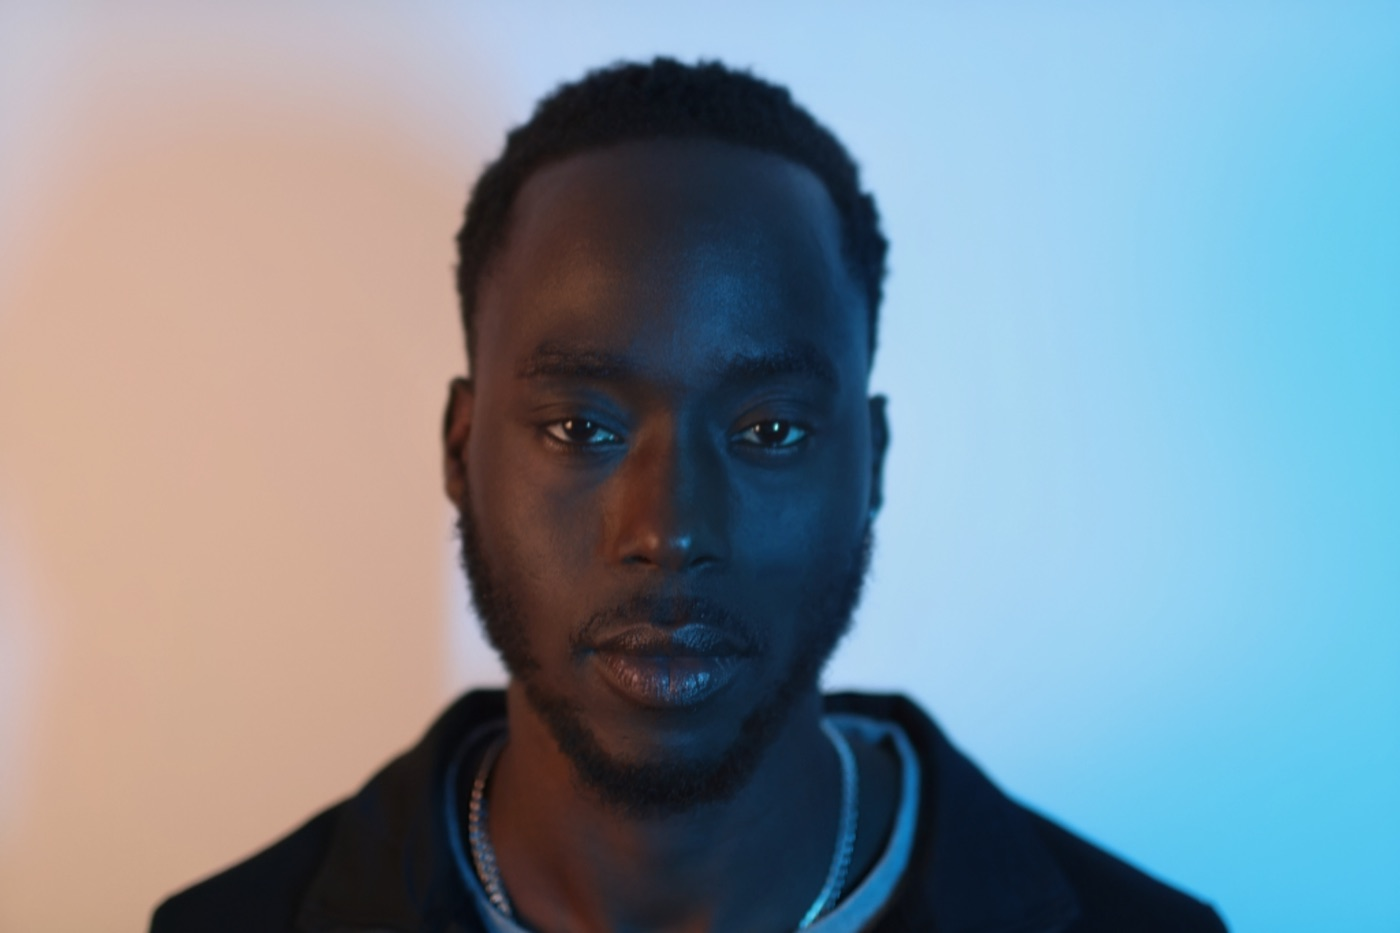
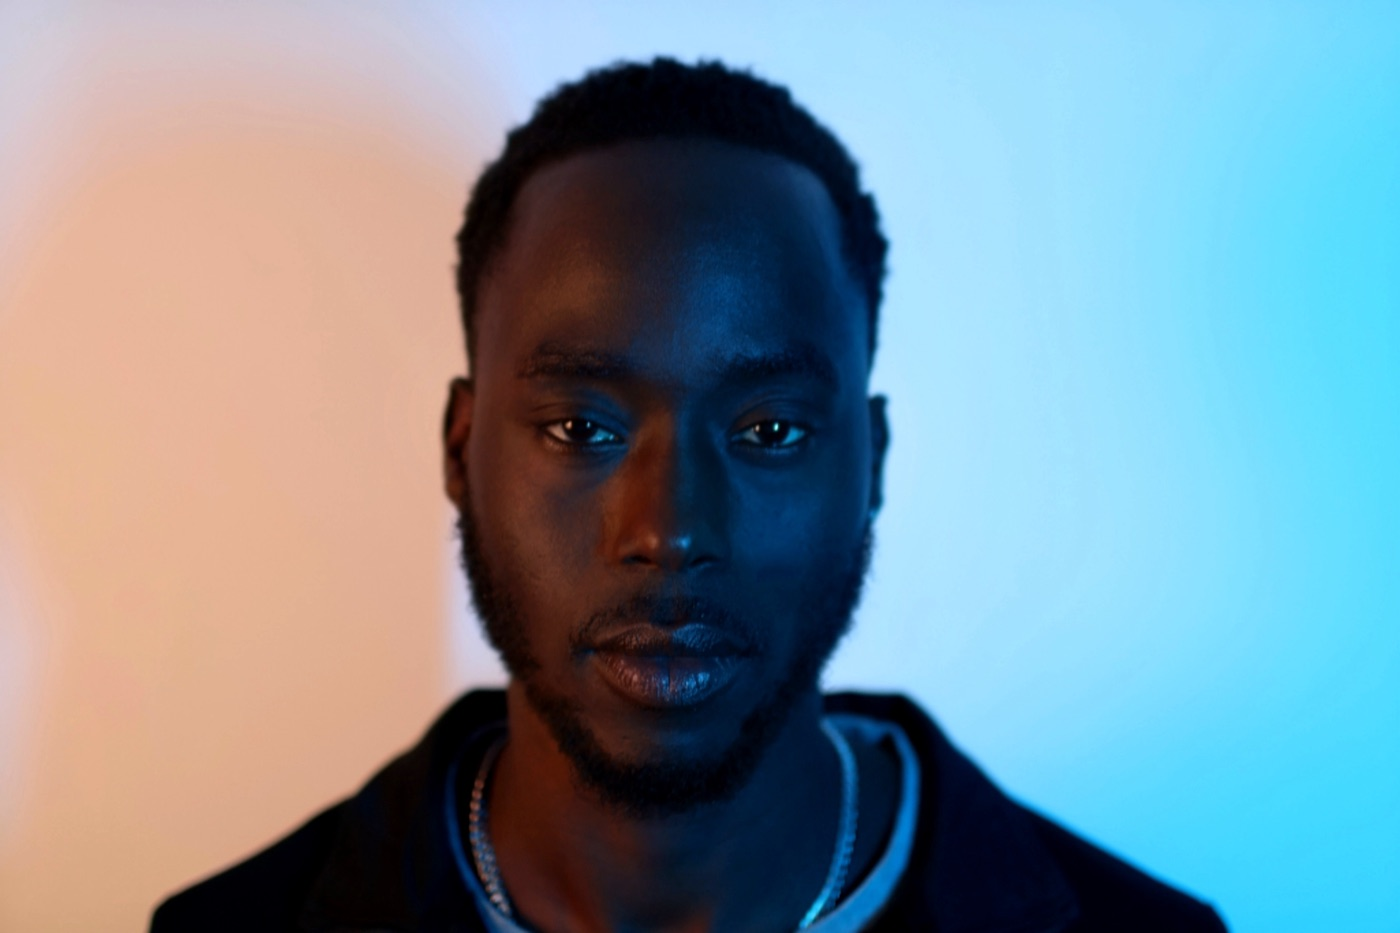
Talent and founders: website bios, edited photos, founders on the Talent page
- Exact website bios for Prince, Rebecca, Sabeian, Ngor, Phillip, Jeremy Benson, Jeremy Owusu, Chan, plus founders Joseph Boat and David O
- Split Jeremy into two people (Benson, Owusu)
- Replace five photos with the edited ones (resized to 1400px)
- Bios shown in the talent profile sheet (scrollable) and on founder cards (Read more)
- Founders section on the Talent page; shared FounderCard
- Tests for exact text, photos, cover and gradient

diff --git a/__tests__/talent-photos.test.js b/__tests__/talent-photos.test.js
@@ -1,6 +1,6 @@
 import fs from 'fs';
 import path from 'path';
-import { render, screen } from '@testing-library/react-native';
+import { render, screen, userEvent } from '@testing-library/react-native';
 
 const read = (f) => fs.readFileSync(path.join(__dirname, '..', f), 'utf8');
 
@@ -38,5 +38,75 @@ describe('real photos on the casting board', () => {
     const talentScreen = read('src/screens/TalentScreen.js');
     expect(talentScreen).toMatch(/useGoldSheen\(\)/);
     expect(talentScreen).toMatch(/onHoverIn/);
+  });
+});
+
+describe('the website bios, word for word', () => {
+  const { talent, founders } = require('../src/data/boaContent');
+  const BIOS = {
+    'prince-boamah': "Prince Boamah is an emerging creative with a passion for storytelling, film and bringing meaningful characters to life. Driven by creativity, ambition and a desire to grow, he is focused on developing his craft and exploring opportunities within the entertainment industry. With a genuine appreciation for authentic stories and the power of film to connect people, Prince brings dedication, personality and a fresh perspective to every project he is part of. His journey is rooted in resilience, self-expression and the belief that every story deserves to be told. As he continues to build his experience, Prince aims to create work that resonates with audiences, challenges perspectives and leaves a lasting impression.",
+    'rebecca-soper': "Rebecca Soper is a London-based actor, drama facilitator and Youth Violence Intervention Specialist. She trained at Intermission Youth Theatre, Identity Drama School, the National Youth Theatre and London School of Dramatic Arts. Her acting credits include Shakespeare's Globe, the Royal Court Theatre, film and voiceover work, including Netflix productions. Alongside acting, Rebecca uses drama and storytelling to raise awareness of youth violence, exploitation, identity and belonging, working with young people across schools, youth theatres and prison settings to inspire meaningful change.",
+    'sabeian-gilzene': "Sabeian Gilzene is a 6ft5 Actor and model from the UK with Caribbean roots. He is an amazing model and Actor, very professional on set, and looks to one day make his own TV shows and movies.",
+    'ngor-yel': "Ngor Yel is an Actor and model who is professional on set and ready to do whatever it takes to make sure the scene is right. A great basketball player and athlete, he is also a daytime teacher, making him excellent at code-switching.",
+    'phillip-quartey': "Phillip Quartey is an Actor and Model from London. Standing at 6ft2, he is confident, an amazing dancer, and is always ready for the call. He is also a great athlete, especially in football.",
+    'jeremy-benson': "Jeremy Benson is up and coming, learning the ropes of acting and the whole creative portfolio that comes with it. He will soon be hosting his own channel, which will have activities and explorations inside it. He is very confident, ready at fast speed, and gets his scenes right, if not on the first attempt, then the second.",
+    'jeremy-owusu': "Jeremy Owusu is an Actor and model who is confident, a comedian, and brings joy and good energy into the room. He still has a quiet, cool, observant profile about himself. He enjoys football a lot, is excellent at code-switching, and showcases this on camera.",
+    'chan-yel': "Chan Yel is an amazing Actor and model who takes his craft seriously. He is very good at basketball, specialises in urban content, and would be great for thriller roles both inside and outside the urban scene. He is athletic and has the perfect muscular build, not too big and not too small.",
+  };
+  const FOUNDERS = {
+    'David O': "Very observant, quiet and reserved in profile, yet very thoughtful and one of the most helpful, outgoing people you'll meet. He is technically and creatively up to date, good with all equipment and setup. He has done everything creatively from a camera and editing standpoint, so he is well experienced.",
+    'Joseph Boat': "A confident leader who is always looking for ways for all of us to win. My goal is to create chances and opportunities for people who the door has been closed on and not given a chance, yet they are talented and have what it takes, they just need exposure. Profile is charismatic and a people's person, great at networking in any environment. Inside I am shy, but on the outside I portray a very confident, assertive demeanour. Overall, walk with love.",
+  };
+
+  test.each(Object.entries(BIOS))('%s', (id, bio) => {
+    expect(talent.find((t) => t.id === id).bio).toBe(bio);
+  });
+
+  test.each(Object.entries(FOUNDERS))('%s (founder)', (name, bio) => {
+    expect(founders.find((f) => f.name === name).bio).toBe(bio);
+  });
+
+  test('Jeremy Benson and Jeremy Owusu are different people; nobody else is invented a bio', () => {
+    expect(talent.find((t) => t.id === 'jeremy-benson').name).toBe('Jeremy Benson');
+    expect(talent.find((t) => t.id === 'jeremy-owusu').name).toBe('Jeremy Owusu');
+    expect(talent.filter((t) => !BIOS[t.id]).every((t) => t.bio === null)).toBe(true);
+  });
+
+  test('the edited photos replaced the old ones, at the same paths', () => {
+    for (const f of ['david-o', 'joseph-boat', 'ngor-yel', 'phillip-quartey', 'prince-boamah']) {
+      const bytes = fs.readFileSync(path.join(__dirname, '..', 'assets', 'talent', `${f}.jpg`));
+      expect(bytes.length).toBeGreaterThan(50000);
+      // JPEG, resized to fit the app (the originals were 2 to 3 MB).
+      expect(bytes.length).toBeLessThan(400000);
+    }
+  });
+});
+
+describe('founders, on Profile and on the Talent page', () => {
+  const FounderCard = require('../src/components/FounderCard').default;
+  const { founders } = require('../src/data/boaContent');
+
+  test('a founder card opens to the whole bio and closes again', async () => {
+    const user = userEvent.setup();
+    await render(<FounderCard founder={founders[0]} />);
+    expect(screen.getByTestId('founder-bio').props.numberOfLines).toBe(3);
+    await user.press(screen.getByTestId('founder-bio-toggle'));
+    expect(screen.getByTestId('founder-bio').props.numberOfLines).toBeUndefined();
+    await user.press(screen.getByTestId('founder-bio-toggle'));
+    expect(screen.getByTestId('founder-bio').props.numberOfLines).toBe(3);
+  });
+
+  test('on the Talent page the photo is large, cover-filled, under the dark gradient', async () => {
+    await render(<FounderCard founder={founders[1]} photoWidth={300} />);
+    expect(screen.getByTestId('headshot-photo').props.resizeMode).toBe('cover');
+    expect(screen.getByTestId('headshot-shade')).toBeOnTheScreen();
+  });
+
+  test('both screens show them, and a talent bio opens in the profile sheet', () => {
+    const talentScreen = read('src/screens/TalentScreen.js');
+    expect(talentScreen).toMatch(/<FounderCard/);
+    expect(talentScreen).toMatch(/testID="talent-founders"/);
+    expect(talentScreen).toMatch(/\{selected\.bio/);
+    expect(read('src/screens/ProfileScreen.js')).toMatch(/<FounderCard/);
   });
 });

diff --git a/src/data/boaContent.js b/src/data/boaContent.js
@@ -91,6 +91,7 @@ export const showreel = {
 // Order, roles, frame ratios and tints match the roster on /talent.
 // Real photos (assets/talent, cropped to cover from the middle) for everyone
 // who has sent one; the rest keep the initials placeholder (headshot: null).
+// Bios are the website's own words, verbatim.
 const PHOTOS = {
   'sabeian-gilzene': require('../../assets/talent/sabeian-gilzene.jpg'),
   'jeremy-owusu': require('../../assets/talent/jeremy-owusu.jpg'),
@@ -101,17 +102,19 @@ const PHOTOS = {
 };
 
 export const talent = [
-  { id: 'sabeian-gilzene', name: 'Sabeian Gilzene', role: 'Actor & Model', ratio: 3 / 4, tint: '#E2A84B' },
-  { id: 'jeremy-owusu', name: 'Jeremy Benson', role: 'Actor & Model', ratio: 2 / 3, tint: '#D9D4C8' },
-  { id: 'ngor-yel', name: 'Ngor Yel', role: 'Actor & Model', ratio: 2 / 3, tint: '#D9D4C8' },
+  { id: 'sabeian-gilzene', name: 'Sabeian Gilzene', role: 'Actor & Model', ratio: 3 / 4, tint: '#E2A84B', bio: "Sabeian Gilzene is a 6ft5 Actor and model from the UK with Caribbean roots. He is an amazing model and Actor, very professional on set, and looks to one day make his own TV shows and movies." },
+  { id: 'jeremy-benson', name: 'Jeremy Benson', role: 'Actor & Model', ratio: 2 / 3, tint: '#D9D4C8', bio: "Jeremy Benson is up and coming, learning the ropes of acting and the whole creative portfolio that comes with it. He will soon be hosting his own channel, which will have activities and explorations inside it. He is very confident, ready at fast speed, and gets his scenes right, if not on the first attempt, then the second." },
+  { id: 'jeremy-owusu', name: 'Jeremy Owusu', role: 'Actor & Model', ratio: 2 / 3, tint: '#D9D4C8', bio: "Jeremy Owusu is an Actor and model who is confident, a comedian, and brings joy and good energy into the room. He still has a quiet, cool, observant profile about himself. He enjoys football a lot, is excellent at code-switching, and showcases this on camera." },
+  { id: 'ngor-yel', name: 'Ngor Yel', role: 'Actor & Model', ratio: 2 / 3, tint: '#D9D4C8', bio: "Ngor Yel is an Actor and model who is professional on set and ready to do whatever it takes to make sure the scene is right. A great basketball player and athlete, he is also a daytime teacher, making him excellent at code-switching." },
   { id: 'tobi-adeyemi', name: 'Tobi Adeyemi', role: 'Model', ratio: 5 / 7, tint: '#9BB36A' },
-  { id: 'chan-yel', name: 'Chan Yel', role: 'Actor & Model', ratio: 4 / 5, tint: '#E08AA0' },
-  { id: 'prince-boamah', name: 'Prince Boamah', role: 'Actor & Model', ratio: 4 / 5, tint: '#D1513F' },
-  { id: 'rebecca-soper', name: 'Rebecca Soper', role: 'Actress & Model', ratio: 3 / 4, tint: '#E2A84B' },
-  { id: 'phillip-quartey', name: 'Phillip Quartey', role: 'Actor & Model', ratio: 3 / 4, tint: '#5CB8E6' },
+  { id: 'chan-yel', name: 'Chan Yel', role: 'Actor & Model', ratio: 4 / 5, tint: '#E08AA0', bio: "Chan Yel is an amazing Actor and model who takes his craft seriously. He is very good at basketball, specialises in urban content, and would be great for thriller roles both inside and outside the urban scene. He is athletic and has the perfect muscular build, not too big and not too small." },
+  { id: 'prince-boamah', name: 'Prince Boamah', role: 'Actor & Model', ratio: 4 / 5, tint: '#D1513F', bio: "Prince Boamah is an emerging creative with a passion for storytelling, film and bringing meaningful characters to life. Driven by creativity, ambition and a desire to grow, he is focused on developing his craft and exploring opportunities within the entertainment industry. With a genuine appreciation for authentic stories and the power of film to connect people, Prince brings dedication, personality and a fresh perspective to every project he is part of. His journey is rooted in resilience, self-expression and the belief that every story deserves to be told. As he continues to build his experience, Prince aims to create work that resonates with audiences, challenges perspectives and leaves a lasting impression." },
+  { id: 'rebecca-soper', name: 'Rebecca Soper', role: 'Actress & Model', ratio: 3 / 4, tint: '#E2A84B', bio: "Rebecca Soper is a London-based actor, drama facilitator and Youth Violence Intervention Specialist. She trained at Intermission Youth Theatre, Identity Drama School, the National Youth Theatre and London School of Dramatic Arts. Her acting credits include Shakespeare's Globe, the Royal Court Theatre, film and voiceover work, including Netflix productions. Alongside acting, Rebecca uses drama and storytelling to raise awareness of youth violence, exploitation, identity and belonging, working with young people across schools, youth theatres and prison settings to inspire meaningful change." },
+  { id: 'phillip-quartey', name: 'Phillip Quartey', role: 'Actor & Model', ratio: 3 / 4, tint: '#5CB8E6', bio: "Phillip Quartey is an Actor and Model from London. Standing at 6ft2, he is confident, an amazing dancer, and is always ready for the call. He is also a great athlete, especially in football." },
   { id: 'aaron-russell', name: 'Aaron Russell', role: 'Actor & Model', ratio: 3 / 4, tint: '#A6A29B' },
 ].map((t) => ({
   ...t,
+  bio: t.bio ?? null,
   headshot: PHOTOS[t.id] ?? null,
   profileUrl: `${SITE_URL}/talent/${t.id}`,
   enquireUrl: `${SITE_URL}/contact?subject=${encodeURIComponent(`Booking enquiry: ${t.name}`)}`,
@@ -124,6 +127,7 @@ export const founders = [
     headshot: require('../../assets/talent/joseph-boat.jpg'),
     tint: '#E2A84B',
     quote: 'Talent was never the problem. Access was.',
+    bio: "A confident leader who is always looking for ways for all of us to win. My goal is to create chances and opportunities for people who the door has been closed on and not given a chance, yet they are talented and have what it takes, they just need exposure. Profile is charismatic and a people's person, great at networking in any environment. Inside I am shy, but on the outside I portray a very confident, assertive demeanour. Overall, walk with love.",
   },
   {
     name: 'David O',
@@ -131,6 +135,7 @@ export const founders = [
     headshot: require('../../assets/talent/david-o.jpg'),
     tint: '#E2A84B',
     quote: 'We are not here to guard the door. We are here to hold it open.',
+    bio: "Very observant, quiet and reserved in profile, yet very thoughtful and one of the most helpful, outgoing people you'll meet. He is technically and creatively up to date, good with all equipment and setup. He has done everything creatively from a camera and editing standpoint, so he is well experienced.",
   },
 ];
 

diff --git a/src/screens/TalentScreen.js b/src/screens/TalentScreen.js
@@ -3,9 +3,10 @@ import { Linking, Pressable, ScrollView, StyleSheet, Text, View } from 'react-na
 import { useSafeAreaInsets } from 'react-native-safe-area-context';
 import Animated, { FadeIn, FadeInDown, LinearTransition } from 'react-native-reanimated';
 import { LinearGradient } from 'expo-linear-gradient';
-import { talent } from '../data/boaContent';
+import { founders, talent } from '../data/boaContent';
 import { useForms } from '../context/FormsContext';
 import Headshot from '../components/Headshot';
+import FounderCard from '../components/FounderCard';
 import { useGoldSheen } from '../components/GoldSheen';
 import BottomSheet from '../components/BottomSheet';
 import CastingBoard from '../components/casting/CastingBoard';
@@ -95,6 +96,9 @@ export default function TalentScreen({ route, navigation }) {
   const colWidth = Math.floor((contentWidth - space.xl * 2 - GAP * (columns - 1)) / columns);
   const visible = talent.filter(FILTERS.find((f) => f.id === filter).test);
   const grid = toColumns(visible, columns);
+  // The founders sit two across, or one under the other on a narrow phone.
+  const founderInner = contentWidth - space.xl * 2;
+  const founderPhoto = founderInner >= 560 ? Math.floor((founderInner - space.xl) / 2) : founderInner;
 
   const browse = (
     <ScrollView testID="talent-scroll" contentContainerStyle={{ paddingBottom: bottom }} showsVerticalScrollIndicator={false}>
@@ -146,6 +150,22 @@ export default function TalentScreen({ route, navigation }) {
         ))}
       </View>
 
+      {/* The people behind BOA, on the roster page too. */}
+      <View style={[styles.founders, { width: contentWidth }]} testID="talent-founders">
+        <Slate dot>The founders</Slate>
+        <View style={[styles.founderGrid, { gap: space.xl }]}>
+          {founders.map((f) => (
+            <FounderCard
+              key={f.name}
+              founder={f}
+              photoWidth={founderPhoto}
+              style={{ width: founderPhoto }}
+              textStyle={styles.founderQuote}
+            />
+          ))}
+        </View>
+      </View>
+
       <Animated.View entering={FadeIn.delay(300)} style={styles.cta}>
         <Text style={[type.h1, { textAlign: 'center' }]}>
           The next face here could be <Text style={type.serif}>yours.</Text>
@@ -160,7 +180,8 @@ export default function TalentScreen({ route, navigation }) {
     <Animated.View key="full" entering={FadeIn.duration(360)} style={styles.screen}>
       {browse}
 
-      <BottomSheet open={sheetOpen} onClose={() => setSheetOpen(false)}>
+      {/* Only the handle drags, so a long bio can scroll. */}
+      <BottomSheet open={sheetOpen} onClose={() => setSheetOpen(false)} dragAnywhere={false}>
         {selected && (
           <View style={styles.sheet}>
             <View style={styles.sheetHead}>
@@ -173,6 +194,13 @@ export default function TalentScreen({ route, navigation }) {
                 <Slate style={{ marginTop: 8 }}>BOA Network roster</Slate>
               </View>
             </View>
+            {selected.bio ? (
+              <ScrollView style={styles.bioScroll} nestedScrollEnabled showsVerticalScrollIndicator={false} testID="talent-bio-scroll">
+                <Text style={[type.bodyMuted, styles.bio]} testID="talent-bio">
+                  {selected.bio}
+                </Text>
+              </ScrollView>
+            ) : null}
             <ProfileActions person={selected} onEnquire={() => enquire(selected)} />
           </View>
         )}
@@ -202,8 +230,13 @@ const styles = StyleSheet.create({
   filterTextActive: { color: colors.bg },
   filterCount: { fontFamily: fonts.mono, fontSize: 11, color: colors.textFaint },
   grid: { flexDirection: 'row', alignSelf: 'center', paddingHorizontal: space.xl },
+  founders: { alignSelf: 'center', paddingHorizontal: space.xl, marginTop: space.xxxl * 1.5 },
+  founderGrid: { flexDirection: 'row', flexWrap: 'wrap', marginTop: space.lg },
+  founderQuote: { fontFamily: fonts.serif, fontSize: 22, lineHeight: 28, color: colors.text },
   cta: { alignItems: 'center', paddingHorizontal: space.xl, paddingTop: space.xxxl * 1.5, maxWidth: 620, alignSelf: 'center' },
   sheet: { paddingHorizontal: space.xl, gap: space.xl },
+  bioScroll: { maxHeight: 240 },
+  bio: { lineHeight: 23 },
   sheetHead: { flexDirection: 'row', alignItems: 'center', gap: space.lg },
   sheetActions: { flexDirection: 'row', gap: space.md },
 });

diff --git a/src/components/FounderCard.js b/src/components/FounderCard.js
@@ -1,0 +1,58 @@
+import { useState } from 'react';
+import { Pressable, StyleSheet, Text, View } from 'react-native';
+import Headshot from './Headshot';
+import { Slate } from './ui';
+import { colors, fonts, space } from '../theme';
+
+/**
+ * A founder: their quote, their photo and, opened with Read more, their own
+ * words about themselves. Used in Profile (a small round photo beside the
+ * name) and on the Talent page (`photoWidth`: the photo in full, cover-filled
+ * under the dark gradient, with the name set on it).
+ */
+export default function FounderCard({ founder: f, style, textStyle, photoWidth }) {
+  const [open, setOpen] = useState(false);
+  const slug = f.name.replace(/\s+/g, '-').toLowerCase();
+  return (
+    <View style={style} testID={`founder-${slug}`}>
+      {photoWidth ? (
+        <View style={styles.photo}>
+          <Headshot person={f} width={photoWidth} ratio={4 / 5} label={false} caption={{ kicker: f.role, title: f.name, highlight: true }} />
+        </View>
+      ) : null}
+      <Text style={textStyle}>“{f.quote}”</Text>
+      {photoWidth ? null : (
+        <View style={styles.row}>
+          <Headshot person={f} width={44} round />
+          <Slate style={{ flex: 1 }} lines={2}>
+            {f.name} · {f.role}
+          </Slate>
+        </View>
+      )}
+      {f.bio ? (
+        <>
+          <Text style={styles.bio} numberOfLines={open ? undefined : 3} testID="founder-bio">
+            {f.bio}
+          </Text>
+          <Pressable
+            onPress={() => setOpen((v) => !v)}
+            hitSlop={10}
+            accessibilityRole="button"
+            accessibilityState={{ expanded: open }}
+            accessibilityLabel={open ? `Show less about ${f.name}` : `Read more about ${f.name}`}
+            testID="founder-bio-toggle"
+          >
+            <Text style={styles.more}>{open ? 'Show less' : 'Read more'}</Text>
+          </Pressable>
+        </>
+      ) : null}
+    </View>
+  );
+}
+
+const styles = StyleSheet.create({
+  photo: { marginBottom: space.lg },
+  row: { flexDirection: 'row', alignItems: 'center', gap: space.md, marginTop: space.md },
+  bio: { fontFamily: fonts.medium, fontSize: 14, lineHeight: 21, color: colors.textMuted, marginTop: space.md },
+  more: { fontFamily: fonts.semibold, fontSize: 12.5, color: colors.gold, marginTop: space.sm },
+});

diff --git a/src/screens/ProfileScreen.js b/src/screens/ProfileScreen.js
@@ -10,7 +10,7 @@ import { usePremium } from '../context/PremiumContext';
 import { usePlayer } from '../context/PlayerContext';
 import { PRICE } from '../components/premium/PremiumScreen';
 import StationLogo from '../components/StationLogo';
-import Headshot from '../components/Headshot';
+import FounderCard from '../components/FounderCard';
 import { VIBES } from './OnboardingScreen';
 import BoaLogo from '../components/BoaLogo';
 import { Button, EmptyState, Fog, GoldBadge, LogoWatermark, Slate, Tappable, Viewfinder } from '../components/ui';
@@ -375,15 +375,7 @@ export default function ProfileScreen({ navigation }) {
         <Slate style={{ marginTop: space.xxl }}>The founders</Slate>
         <View style={wide && styles.quotes}>
           {founders.map((f) => (
-            <View key={f.name} style={[styles.quote, wide && { width: (inner - space.xl) / 2 }]}>
-              <Text style={styles.quoteText}>“{f.quote}”</Text>
-              <View style={styles.founderRow}>
-                <Headshot person={f} width={44} round />
-                <Slate style={{ flex: 1 }} lines={2}>
-                  {f.name} · {f.role}
-                </Slate>
-              </View>
-            </View>
+            <FounderCard key={f.name} founder={f} style={[styles.quote, wide && { width: (inner - space.xl) / 2 }]} textStyle={styles.quoteText} />
           ))}
         </View>
 
@@ -515,7 +507,6 @@ const styles = StyleSheet.create({
   lovedKicker: { fontFamily: fonts.monoMedium, fontSize: 9.5, letterSpacing: 1.4, color: colors.gold },
   lovedName: { fontFamily: fonts.semibold, fontSize: 17, letterSpacing: -0.3, color: colors.text, marginTop: 3 },
   lovedPlay: { width: 34, height: 34, borderRadius: 17, alignItems: 'center', justifyContent: 'center', backgroundColor: colors.gold, boxShadow: '0px 4px 14px rgba(226,168,75,0.5)' },
-  founderRow: { flexDirection: 'row', alignItems: 'center', gap: space.md, marginTop: space.md },
   quote: { marginTop: space.lg, paddingLeft: space.lg, borderLeftWidth: 2, borderLeftColor: colors.gold },
   quoteText: { fontFamily: fonts.serif, fontSize: 24, lineHeight: 30, color: colors.text },
 });

diff --git a/__tests__/launch-polish.test.js b/__tests__/launch-polish.test.js
@@ -9,9 +9,11 @@ describe('the casting board', () => {
   const { talent } = require('../src/data/boaContent');
   const Headshot = require('../src/components/Headshot').default;
 
-  test('Jeremy Benson, in full', () => {
-    expect(talent.map((t) => t.name)).toContain('Jeremy Benson');
-    expect(talent.some((t) => /Owusu/.test(t.name))).toBe(false);
+  test('Jeremy Benson and Jeremy Owusu are two people, each in full', () => {
+    expect(talent.map((t) => t.name)).toEqual(expect.arrayContaining(['Jeremy Benson', 'Jeremy Owusu']));
+    // Owusu has the photo that was sent; Benson keeps initials until his arrives.
+    expect(talent.find((t) => t.id === 'jeremy-owusu').headshot).toBeTruthy();
+    expect(talent.find((t) => t.id === 'jeremy-benson').headshot).toBeNull();
   });
 
   test('the initials are gold, swept by a sheen clipped to the letters, and centred in the frame', async () => {
